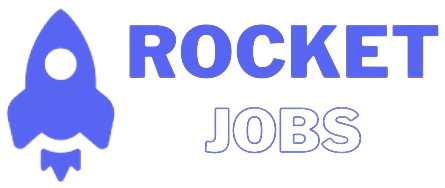
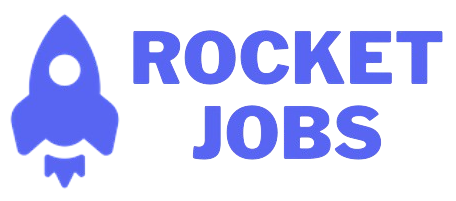
Update UX

diff --git a/src/app/job-board/page.tsx b/src/app/job-board/page.tsx
@@ -135,7 +135,7 @@ const JobSearchCard: React.FC = () => {
 
   const totalPages = Math.ceil(totalCount / itemsPerPage);
   return (
-    <div className="container mx-auto flex h-[calc(100vh-60px)] flex-col p-4">
+    <div className="container mx-auto flex h-[calc(100vh-80px)] flex-col p-4">
       <div className="mb-6 flex flex-col gap-4 sm:flex-row">
         <div className="w-full sm:w-1/3">
           <JobLevelFilter

diff --git a/src/app/components/TopNavBar.tsx b/src/app/components/TopNavBar.tsx
@@ -20,7 +20,7 @@ export const TopNavBar = () => {
       <div className="flex h-10 w-full items-center justify-between">
         <Link href="/">
           <span className="sr-only">Job Board</span>
-          <Image src={logoSrc} alt="Logo" className="h-8 w-full" priority />
+          <Image src={logoSrc} alt="Logo" width={90} height={45} priority />
         </Link>
       </div>
     </header>
